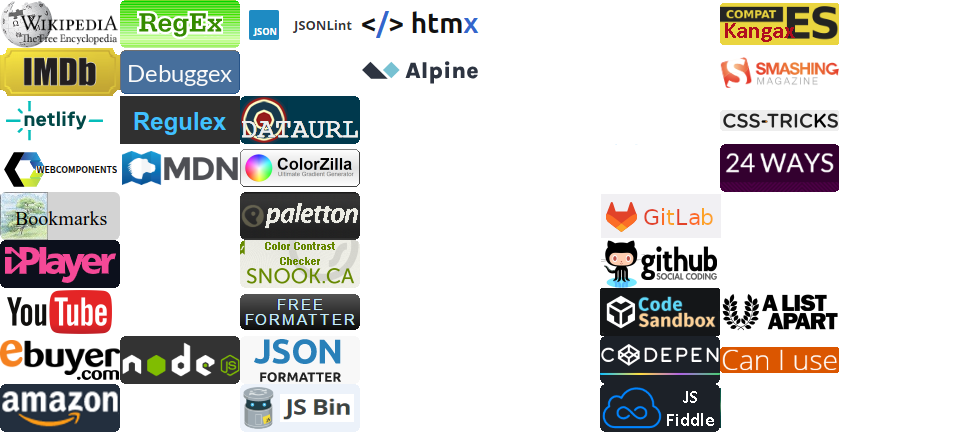
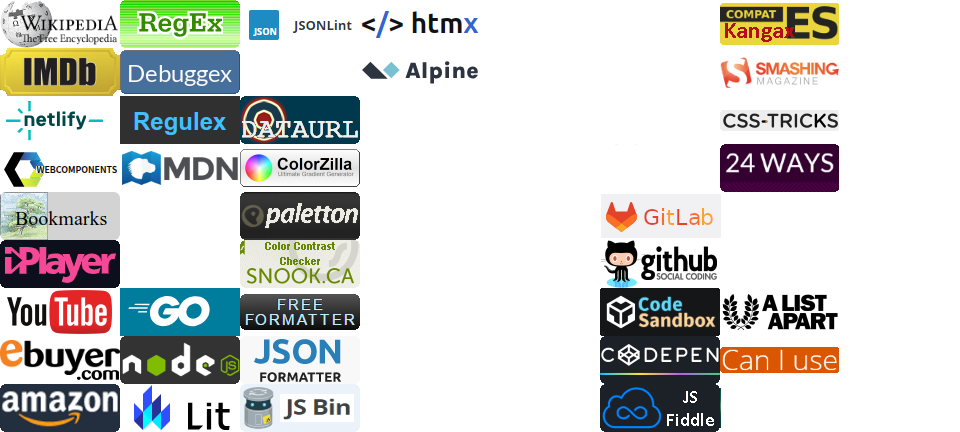
Go lang link added

Changed region(s): [[0.125, 0.662, 0.25, 0.7824], [0.125, 0.9028, 0.25, 1.0]]

diff --git a/index.html b/index.html
@@ -70,6 +70,12 @@
             style="background-position: 960px 288px"
           ></a>
           <a
+            href="https://go.dev/"
+            style="background-position: 840px 144px"
+          ></a>
+          <br />
+
+          <a
             href="https://www.smashingmagazine.com/"
             style="background-position: 240px 384px"
           ></a>
@@ -117,6 +123,7 @@
             href="https://jsbin.com/"
             style="background-position: 720px 48px"
           ></a>
+          <br />
 
           <a
             href="https://jex.im/regulex/#!flags=&re=%5E(a%7Cb)*%3F%24"
@@ -139,6 +146,7 @@
             href="https://jsonlint.com/"
             style="background-position: 720px 432px"
           ></a>
+          <br />
 
           <a
             href="https://snook.ca/technical/colour_contrast/colour.html#fg=33FF33,bg=333333"
@@ -166,6 +174,10 @@
           <a
             href="https://alpinejs.dev/"
             style="background-position: 600px 384px"
+          ></a>
+          <a
+            href="https://lit.dev/"
+            style="background-position: 840px 48px"
           ></a>
         </section>
       </details>
